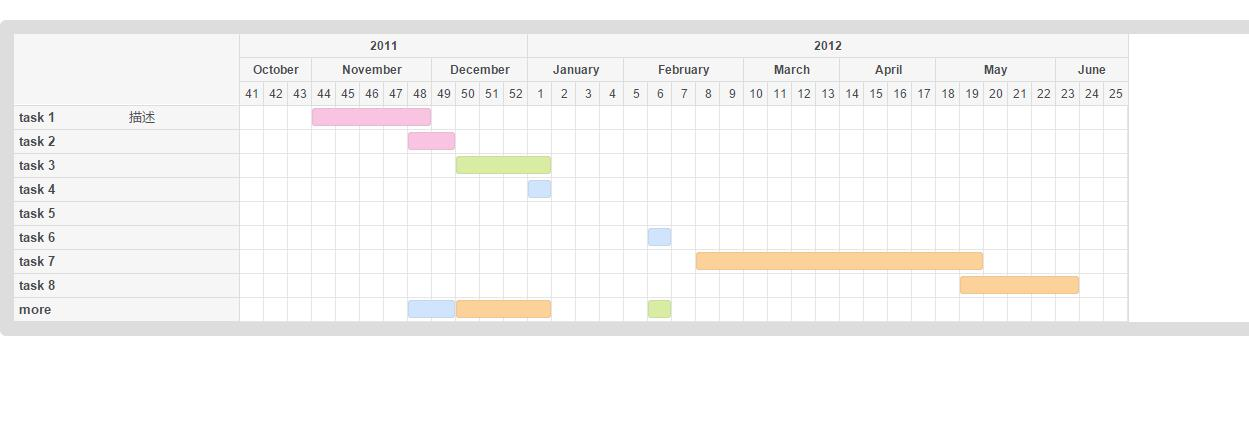
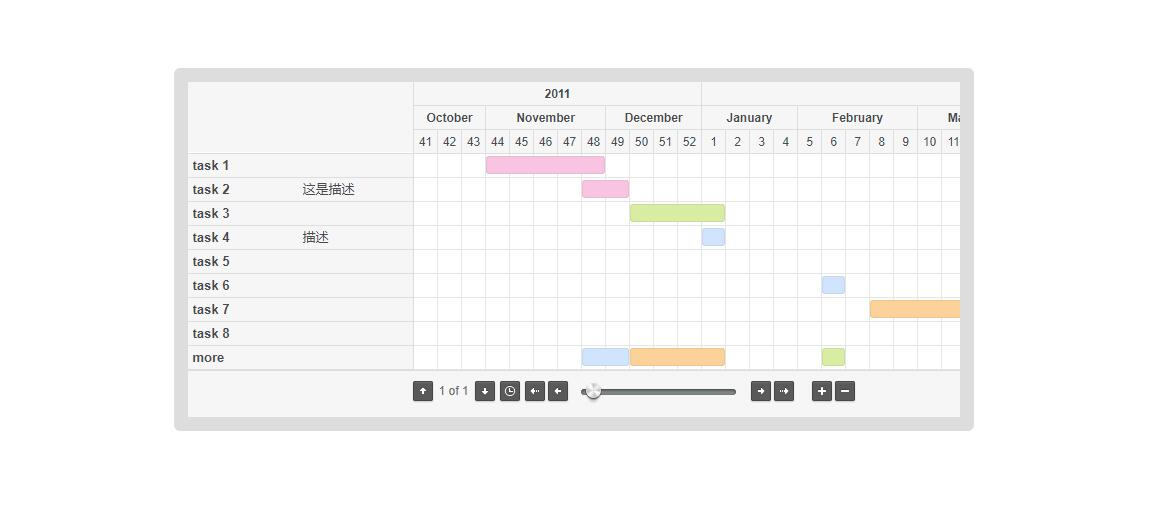
更新btn

Changed region(s): [[0.0, 0.0304, 1.0, 0.8505], [0.2489, 0.3645, 0.3111, 0.3949], [0.2489, 0.4556, 0.28, 0.486]]

diff --git a/index.html b/index.html
@@ -38,107 +38,110 @@
     </style>
 </head>
 <body>
+    <div class="gantt_ot" style="width:800px; margin:100px auto;">
+        <div class="gantt"></div>
+    </div>
 
-    <div class="gantt"></div>
 
 </body>
+</html>
 <script src="js/jquery-1.7.2.min.js"></script>
 <script src="js/jquery.fn.gantt.js"></script>
-<script src="js/bootstrap-tooltip.js"></script>
-<script src="js/bootstrap-popover.js"></script>
-<script src="js/prettify.js"></script>
+<!--<script src="js/bootstrap-tooltip.js"></script>-->
+<!--<script src="js/bootstrap-popover.js"></script>-->
+<!--<script src="js/prettify.js"></script>-->
 <script>
 
-		$(function() {
+    $(function () {
 
-			"use strict";
+        "use strict";
 
-			$(".gantt").gantt({
-			    source: [
+        $(".gantt").gantt({
+            source: [
 
-                    {
-                        name: "task  1",
-                        desc: "描述",
-                        values: [{
-                            from: "/Date(1320192000000)/",
-                            to: "/Date(1322401600000)/",
-                            label: "",
-                            customClass: "ganttRed"
-                        }]
-                    }, {
-                        name: "task  2",
-                        desc: "",
-                        values: [{
-                            from: "/Date(1322611200000)/",
-                            to: "/Date(1323302400000)/",
-                            label: "",
-                            customClass: "ganttRed"
-                        }]
-                    }, {
-                        name: "task  3",
-                        desc: "",
-                        values: [{
-                            from: "/Date(1323802400000)/",
-                            to: "/Date(1325685200000)/",
-                            label: "",
-                            customClass: "ganttGreen"
-                        }]
-                    }, {
-                        name: "task  4",
-                        desc: "",
-                        values: [{
-                            from: "/Date(1325685200000)/",
-                            to: "/Date(1325695200000)/",
-                            label: "",
-                            customClass: "ganttBlue"
-                        }]
-                    }, {
-                        name: "task  5",
-                        desc: "",
-                        values: [{
-                            from: "/Date(1326785200000)/",
-                            to: "/Date(1325785200000)/",
-                            label: "",
-                            customClass: "ganttGreen"
-                        }]
-                    }, {
-                        name: "task  6",
-                        desc: "",
-                        values: [{
-                            from: "/Date(1328785200000)/",
-                            to: "/Date(1328905200000)/",
-                            label: "",
-                            customClass: "ganttBlue"
-                        }]
-                    }, {
-                        name: "task  7",
-                        desc: "",
-                        values: [{
-                            from: "/Date(1330011200000)/",
-                            to: "/Date(1336611200000)/",
-                            label: "",
-                            customClass: "ganttOrange"
-                        }]
-                    }, {
-                        name: "task  8",
-                        desc: "",
-                        values: [{
-                            from: "/Date(1336611200000)/",
-                            to: "/Date(1338711200000)/",
-                            label: "",
-                            customClass: "ganttOrange"
-                        }]
-                    },
+                {
+                    name: "task  1",
+                    desc: "",
+                    values: [{
+                        from: "/Date(1320192000000)/",
+                        to: "/Date(1322401600000)/",
+                        label: "",
+                        customClass: "ganttRed"
+                    }]
+                }, {
+                    name: "task  2",
+                    desc: "这是描述",
+                    values: [{
+                        from: "/Date(1322611200000)/",
+                        to: "/Date(1323302400000)/",
+                        label: "",
+                        customClass: "ganttRed"
+                    }]
+                }, {
+                    name: "task  3",
+                    desc: "",
+                    values: [{
+                        from: "/Date(1323802400000)/",
+                        to: "/Date(1325685200000)/",
+                        label: "",
+                        customClass: "ganttGreen"
+                    }]
+                }, {
+                    name: "task  4",
+                    desc: "描述",
+                    values: [{
+                        from: "/Date(1325685200000)/",
+                        to: "/Date(1325695200000)/",
+                        label: "",
+                        customClass: "ganttBlue"
+                    }]
+                }, {
+                    name: "task  5",
+                    desc: "",
+                    values: [{
+                        from: "/Date(1326785200000)/",
+                        to: "/Date(1325785200000)/",
+                        label: "",
+                        customClass: "ganttGreen"
+                    }]
+                }, {
+                    name: "task  6",
+                    desc: "",
+                    values: [{
+                        from: "/Date(1328785200000)/",
+                        to: "/Date(1328905200000)/",
+                        label: "",
+                        customClass: "ganttBlue"
+                    }]
+                }, {
+                    name: "task  7",
+                    desc: "",
+                    values: [{
+                        from: "/Date(1330011200000)/",
+                        to: "/Date(1336611200000)/",
+                        label: "",
+                        customClass: "ganttOrange"
+                    }]
+                }, {
+                    name: "task  8",
+                    desc: "",
+                    values: [{
+                        from: "/Date(1336611200000)/",
+                        to: "/Date(1338711200000)/",
+                        label: "",
+                        customClass: "ganttOrange"
+                    }]
+                },
 
-                    {
-					name: "more",
-					desc: "",
-					values: [
+                {
+                    name: "more",
+                    desc: "",
+                    values: [
                     {
                         from: "/Date(1322611200000)/",
                         to: "/Date(1323302400000)/",
-					    label: "",
-					    customClass: "ganttBlue"
+                        label: "",
+                        customClass: "ganttBlue"
                     },
                     {
                         from: "/Date(1323802400000)/",
@@ -154,37 +157,27 @@
                     },
 
 
-					    
-					]
-				}],
-				navigate: 'scroll',
-				scale: "weeks",// months days  weeks
-				maxScale: "months",
-				minScale: "days",
-				itemsPerPage: 10,
-				//onItemClick: function(data) {
-				//	alert("Item clicked - show some details");
-				//},
-				onAddClick: function(dt, rowId) {
-					//alert("Empty space clicked - add an item!");
-				},
-				onRender: function() {
-					if (window.console && typeof console.log === "function") {
-						console.log("chart rendered");
-					}
-				}
-			});
 
-			$(".gantt").popover({
-				selector: ".bar",
-				title: "I'm a popover",
-				content: "And I'm the content of said popover."
-			});
+                    ]
+                }],
+            navigate: 'scroll',//buttons  scroll
+            scale: "weeks",// months  weeks days  hours
+            maxScale: "months",
+            minScale: "days",
+            itemsPerPage: 10,
+            onItemClick: function (data) {
+                //alert("Item clicked - show some details");
+            },
+            onAddClick: function (dt, rowId) {
+                //alert("Empty space clicked - add an item!");
+            },
+            onRender: function () {
+                if (window.console && typeof console.log === "function") {
+                    console.log("chart rendered");
+                }
+            }
+        });
 
-			prettyPrint();
-
-		});
+    });
 
 </script>
-
-</html>

diff --git a/css/style.css b/css/style.css
@@ -235,7 +235,7 @@
     width: 100%;
 }
 .fn-gantt .navigate {
-    display:none;
+    /*display:none;*/
     border-top: 1px solid #DDD;
     padding: 10px 0 10px 225px;
 }
